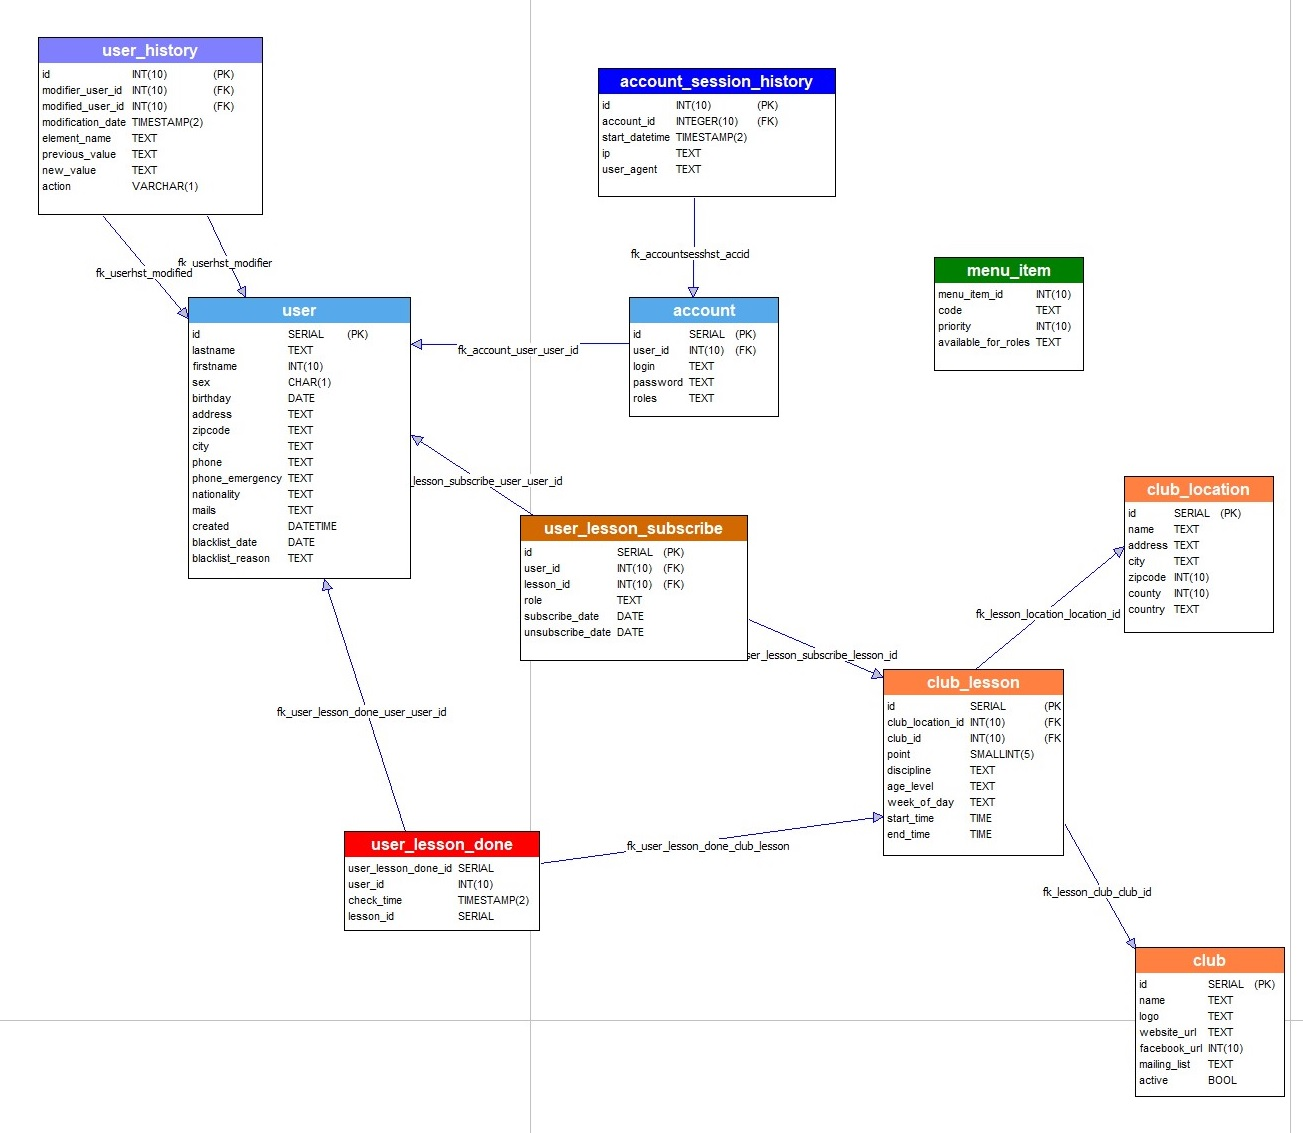
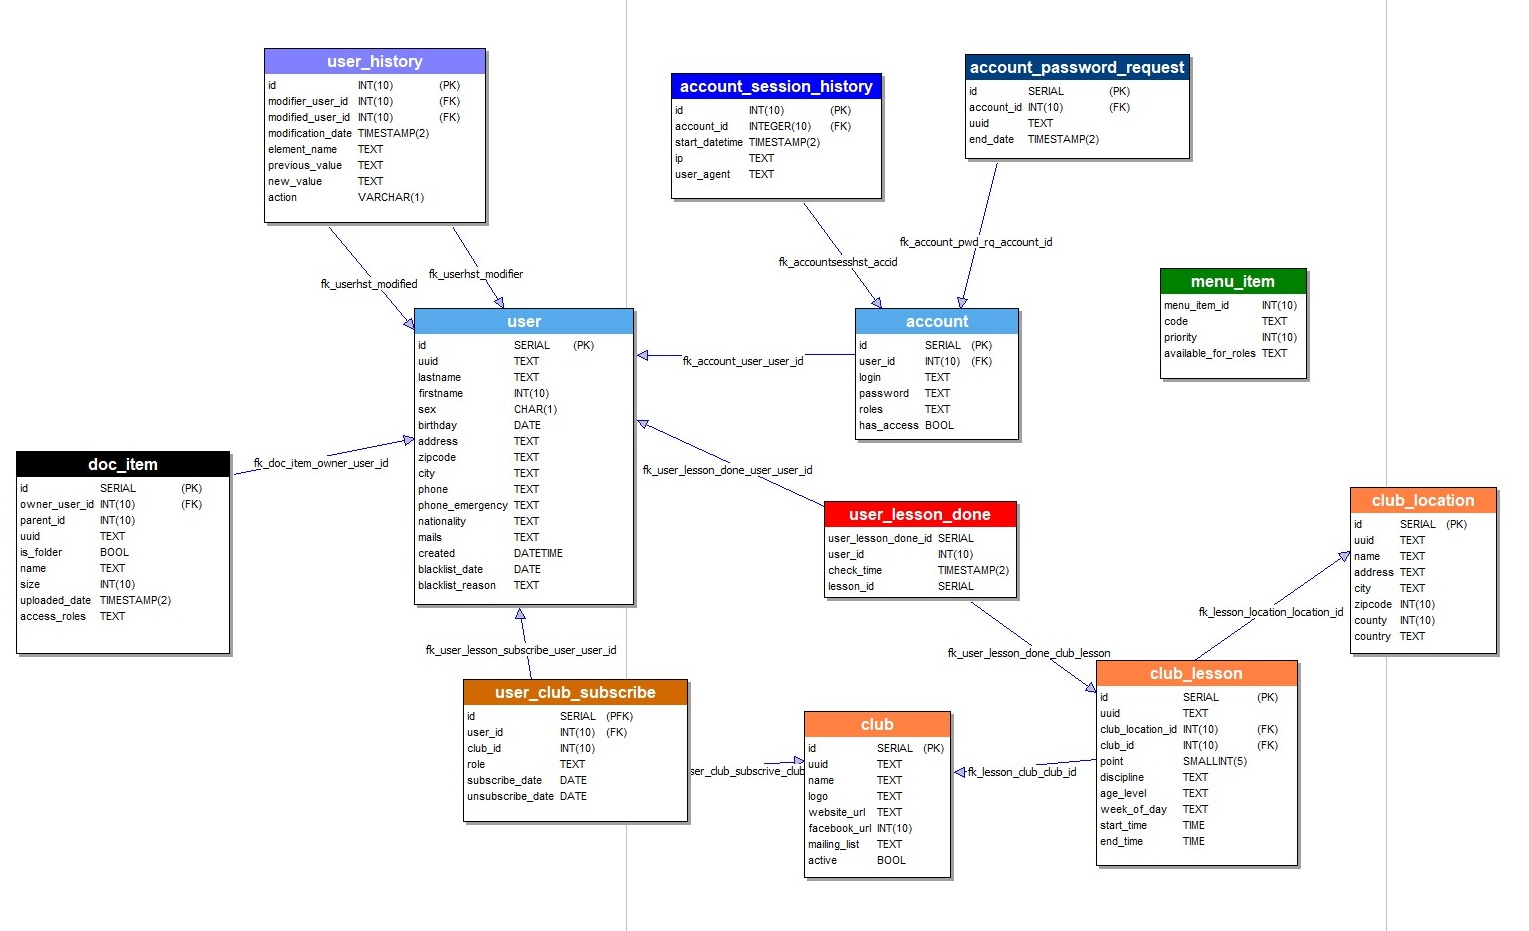
save

Changed region(s): [[0.0, 0.0311, 0.7982, 0.7164], [0.4298, 0.218, 1.0, 0.9656], [0.2456, 0.6853, 0.4605, 0.9033]]

diff --git a/public_html/assets/user/user.js b/public_html/assets/user/user.js
@@ -113,8 +113,10 @@ function handleOk(formId, okJson) {
 	$("#" + formId + " :input").each(function() {
 		var type = $(this).prop('type');
 		if(type != 'button' ) {
-			if(type == 'radio' ) {
-				
+			console.log('handleOk', type);
+			if(type == 'radio') {
+				console.log($(this).prop( "checked" ));
+				//$('#filterDay input:radio:checked').val()
 			} else {
 				$(this).data("previous", $(this).val());
 			}
@@ -127,7 +129,7 @@ function handleError(formId, errorJson) {
 	var data = errorJson.extra;
 	Object.keys(data).forEach(function(k) {
 		var input = $("#" + formId + " [name='" + k + "']");
-		console.log('input', k, input.attr('type'));
+		//console.log('input', k, input.attr('type'));
 		if(input) {
 			input.addClass("is-invalid");
 			var findFrom = input.parent();

diff --git a/src/Repository/AccountPasswordRequestRepository.php b/src/Repository/AccountPasswordRequestRepository.php
@@ -1,0 +1,77 @@
+<?php
+
+namespace App\Repository;
+
+use App\Entity\AccountPasswordRequest;
+use Doctrine\Bundle\DoctrineBundle\Repository\ServiceEntityRepository;
+use Symfony\Bridge\Doctrine\RegistryInterface;
+use Doctrine\ORM\Query\ResultSetMapping;
+use Doctrine\ORM\Query\ResultSetMappingBuilder;
+
+/**
+ * @method AccountPasswordRequest|null find($id, $lockMode = null, $lockVersion = null)
+ * @method AccountPasswordRequest|null findOneBy(array $criteria, array $orderBy = null)
+ * @method AccountPasswordRequest[]	findAll()
+ * @method AccountPasswordRequest[]	findBy(array $criteria, array $orderBy = null, $limit = null, $offset = null)
+ */
+class AccountPasswordRequestRepository extends ServiceEntityRepository
+{
+	public function __construct(RegistryInterface $registry)
+	{
+		parent::__construct($registry, AccountPasswordRequest::class);
+	}
+
+	public function buildByValidLogin($login): ?AccountPasswordRequest
+	{
+		$sql = "SELECT a.*"
+			  ." FROM user u"
+			  ."  JOIN account a ON u.id = a.user_id"
+			  ."  LEFT JOIN account_password_request apr ON apr.account_id = a.id"
+			  ." WHERE login = :login"
+			  ."  AND blacklist_date IS NULL"
+			  ."  AND a.has_access"
+			  ."  AND apr.id IS NULL";
+
+		$rsm = new ResultSetMappingBuilder($this->getEntityManager());
+		$rsm->addRootEntityFromClassMetadata('App\Entity\Account', 'a');
+		$query = $this->getEntityManager()->createNativeQuery($sql, $rsm);
+		$query->setParameter('login', $login);
+		$accounts = $query->getResult();
+		if(count($accounts) == 1) {
+			$request = new AccountPasswordRequest();
+			$request->setAccount($accounts[0]);
+			return $request;
+		}
+		return null;
+	}
+
+
+	// /**
+	//  * @return AccountPasswordRequest[] Returns an array of AccountPasswordRequest objects
+	//  */
+	/*
+	public function findByExampleField($value)
+	{
+		return $this->createQueryBuilder('a')
+			->andWhere('a.exampleField = :val')
+			->setParameter('val', $value)
+			->orderBy('a.id', 'ASC')
+			->setMaxResults(10)
+			->getQuery()
+			->getResult()
+		;
+	}
+	*/
+
+	/*
+	public function findOneBySomeField($value): ?AccountPasswordRequest
+	{
+		return $this->createQueryBuilder('a')
+			->andWhere('a.exampleField = :val')
+			->setParameter('val', $value)
+			->getQuery()
+			->getOneOrNullResult()
+		;
+	}
+	*/
+}

diff --git a/src/Controller/UserController.php b/src/Controller/UserController.php
@@ -6,6 +6,11 @@ use Sensio\Bundle\FrameworkExtraBundle\Configuration\IsGranted;
 use Symfony\Bundle\FrameworkBundle\Controller\AbstractController;
 use Symfony\Component\Routing\Annotation\Route;
 use Symfony\Component\HttpFoundation\Request;
+use Symfony\Component\HttpFoundation\Response;
+use Symfony\Component\Security\Csrf\CsrfToken;
+use Symfony\Component\Security\Core\Exception\InvalidCsrfTokenException;
+use Psr\Log\LoggerInterface;
+use App\Entity\AccountPasswordRequest;
 
 class UserController extends AbstractController
 {
@@ -22,6 +27,55 @@ class UserController extends AbstractController
 			'connectedUser' => $user,
 			'users' => $json->users
 		]);
+	}
+
+	/**
+	 * @Route("/user/me/pwd/request", name="web_user_me_password_request_view", methods={"GET"})
+	 */
+	public function requestPassword(LoggerInterface $logger)
+	{
+		$user = $this->getUser();
+		if( ! $user) {
+			$logger->info('RequestPassword not available for authenticated user: '.$user->getId());
+			return new Response('', 403);
+		}
+
+		return $this->render('forgot-password.html.twig');
+	}
+
+		/**
+	 * @Route("/user/me/pwd/request", name="web_user_me_password_request_send", methods={"POST"})
+	 */
+	public function requestPassword(Request $request, LoggerInterface $logger)
+	{
+		$user = $this->getUser();
+		if( ! $user) {
+			$logger->info('RequestPassword not available for authenticated user: '.$user->getId());
+			return new Response('', 403);
+		}
+
+		$csrf = $request->request->get('_csrf_token');
+		$token = new CsrfToken('authenticate', $csrf);
+		if( ! $this->csrfTokenManager->isTokenValid($token)) {
+			$logger->info('RequestPassword failed by CSRF token');
+			return new Response('', 403);
+		}
+
+		$login = $request->request->get('login');
+		if(strlen($login) < 4) {
+			$logger->info('RequestPassword failed by login too small: '.$login);
+			return new Response('', 403);
+		}
+
+
+		$request = $this->getDoctrine()->getManager()->getRepository(AccountPasswordRequest::class)
+		->buildByValidLogin($login);
+
+		//$response = $this->forward('App\Controller\Api\UserController::one', ['uuid' => $uuid]);
+		//$json = json_decode('');
+		return new Response($request->getUuid(), 200, array(
+			'Content-Type' => 'application/hal+json'
+		));
 	}
 
 	/**

diff --git a/src/Entity/AccountPasswordRequest.php b/src/Entity/AccountPasswordRequest.php
@@ -1,0 +1,80 @@
+<?php
+
+namespace App\Entity;
+
+use Doctrine\ORM\Mapping as ORM;
+use App\Util\StringUtils;
+
+/**
+ * @ORM\Entity(repositoryClass="App\Repository\AccountPasswordRequestRepository")
+ */
+class AccountPasswordRequest
+{
+	/**
+	 * @ORM\Id()
+	 * @ORM\GeneratedValue()
+	 * @ORM\Column(type="integer")
+	 */
+	private $id;
+
+	/**
+	 * @ORM\ManyToOne(targetEntity="App\Entity\Account")
+	 * @ORM\JoinColumn(nullable=false)
+	 */
+	private $account;
+
+	/**
+	 * @ORM\Column(type="string", length=40)
+	 */
+	private $uuid;
+
+	/**
+	 * @ORM\Column(type="datetime")
+	 */
+	private $end_date;
+
+	public function __construct()
+	{
+		$this->uuid = StringUtils::random_str(40);
+		$now = new \DateTime();
+		$this->end_date = $now->add(new \DateInterval("PT2H"));
+	}
+
+	public function getId(): ?int
+	{
+		return $this->id;
+	}
+
+	public function getAccount(): ?Account
+	{
+		return $this->account;
+	}
+
+	public function setAccount(?Account $account): self
+	{
+		$this->account = $account;
+		return $this;
+	}
+
+	public function getUuid(): ?string
+	{
+		return $this->uuid;
+	}
+
+	public function setUuid(string $uuid): self
+	{
+		$this->uuid = $uuid;
+		return $this;
+	}
+
+	public function getEndDate(): ?\DateTimeInterface
+	{
+		return $this->end_date;
+	}
+
+	public function setEndDate(\DateTimeInterface $end_date): self
+	{
+		$this->end_date = $end_date;
+		return $this;
+	}
+}

diff --git a/src/Security/LoginFormAuthenticator.php b/src/Security/LoginFormAuthenticator.php
@@ -111,10 +111,14 @@ class LoginFormAuthenticator extends AbstractFormLoginAuthenticator
 		//throw new \Exception('TODO: provide a valid redirect inside '.__FILE__);
 	}
 
+	//********************************************
+
 	protected function getLoginUrl()
 	{
 		return $this->urlGenerator->generate('app_login');
 	}
+
+	//********************************************
 
 	private function checkCredentialsLegacy($sha1, $credentials, Account $user)
 	{
